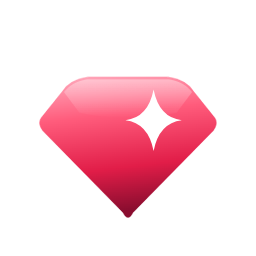
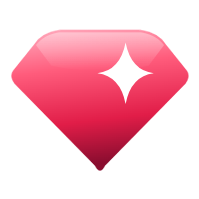
Исправить выравнивание иконки рубина и обрезание имени на карточке "на продаже"
Обрезал прозрачные поля PNG рубина — картинка была смещена внутри
своего холста, из-за чего никакой verticalAlign не давал ровного вида.
Теперь используется стандартный vertical-align: middle везде вместо
ручных пиксельных поправок под каждый размер.

Карточка подарка: если рядом с именем есть цена (лот на продаже), имя
и цена теперь переносятся на отдельные строки вместо того чтобы имя
обрезалось до "Tama G...".

diff --git a/src/pages/Profile.jsx b/src/pages/Profile.jsx
@@ -248,10 +248,10 @@ export default function Profile() {
         <div style={{ textAlign: 'right', marginTop: 4 }}>
           <span style={{ fontSize: 9, color: 'var(--text-muted)' }}>доплата </span>
           <span style={{ fontSize: 12, fontWeight: 700, color: 'var(--gold)' }}>
-            +{fmtGram(paidTopUp)} <GramIcon size={14} style={{ verticalAlign: '-3px' }} />
+            +{fmtGram(paidTopUp)} <GramIcon size={14} />
           </span>
           <div style={{ fontSize: 9, color: 'var(--text-muted)' }}>
-            комиссия при принятии {fmtGram(paidTopUp * TRADE_FEE_RATE)} <GramIcon size={12} style={{ verticalAlign: '-2px' }} />
+            комиссия при принятии {fmtGram(paidTopUp * TRADE_FEE_RATE)} <GramIcon size={12} />
           </div>
         </div>
       )}
@@ -329,7 +329,7 @@ export default function Profile() {
         </div>
         <div style={{ fontFamily: 'var(--font-display)', fontSize: 34, fontWeight: 700 }}>
           <span className="money-text">{loading ? '…' : fmtGram(balance)}</span>
-          {!loading && <GramIcon size={42} style={{ marginLeft: -2, verticalAlign: '-7px' }} />}
+          {!loading && <GramIcon size={42} style={{ marginLeft: -2 }} />}
         </div>
         <div style={{ display: 'flex', gap: 8, width: '100%', marginTop: 14 }}>
           <button
@@ -412,7 +412,7 @@ export default function Profile() {
                 {!isDep && (
                   <div style={{ display: 'flex', alignItems: 'center', justifyContent: 'space-between', marginBottom: 10 }}>
                     <span style={{ fontSize: 13, color: 'var(--text-muted)' }}>
-                      Доступно: <b className="money-text">{fmtGram(balance)}</b> <GramIcon size={16} style={{ verticalAlign: '-3px' }} />
+                      Доступно: <b className="money-text">{fmtGram(balance)}</b> <GramIcon size={16} />
                     </span>
                     <button
                       className="chip"
@@ -569,7 +569,7 @@ export default function Profile() {
                                 💬 {title}
                               </div>
                               <div style={{ fontSize: 11, color: 'var(--text-muted)', marginTop: 2 }}>
-                                Цена лота {fmtGram(o.price_ton)} → предложено <b style={{ color: 'var(--gold)' }}>{fmtGram(o.amount_ton)}</b> <GramIcon size={14} style={{ verticalAlign: '-3px' }} />
+                                Цена лота {fmtGram(o.price_ton)} → предложено <b style={{ color: 'var(--gold)' }}>{fmtGram(o.amount_ton)}</b> <GramIcon size={14} />
                               </div>
                               <div style={{ fontSize: 11, color: 'var(--text-primary)', marginTop: 2 }}>От: @{o.from_username}</div>
                             </div>
@@ -623,7 +623,7 @@ export default function Profile() {
                                 💬 {title}
                               </div>
                               <div style={{ fontSize: 11, color: 'var(--text-muted)', marginTop: 2 }}>
-                                Цена лота {fmtGram(o.price_ton)} → предложено <b style={{ color: 'var(--gold)' }}>{fmtGram(o.amount_ton)}</b> <GramIcon size={14} style={{ verticalAlign: '-3px' }} />
+                                Цена лота {fmtGram(o.price_ton)} → предложено <b style={{ color: 'var(--gold)' }}>{fmtGram(o.amount_ton)}</b> <GramIcon size={14} />
                               </div>
                               <div style={{ fontSize: 11, color: 'var(--text-primary)', marginTop: 2 }}>Кому: @{o.to_username}</div>
                             </div>
@@ -707,7 +707,7 @@ export default function Profile() {
                         <div style={{ textAlign: 'right', marginTop: 4 }}>
                           <span style={{ fontSize: 9, color: 'var(--text-muted)' }}>{label} </span>
                           <span style={{ fontSize: 12, fontWeight: 700, color: 'var(--gold)' }}>
-                            +{fmtGram(amount)} <GramIcon size={18} style={{ verticalAlign: '-4px' }} />
+                            +{fmtGram(amount)} <GramIcon size={18} />
                           </span>
                         </div>
                       )}
@@ -735,7 +735,7 @@ export default function Profile() {
                       <div style={{ textAlign: 'center', fontSize: 11, color: 'var(--text-muted)', margin: '5px 0' }}>
                         ⇅
                         {tx.fee_ton > 0 && (
-                          <span> · комиссия {fmtGram(tx.fee_ton)} <GramIcon size={17} style={{ verticalAlign: '-3px' }} /></span>
+                          <span> · комиссия {fmtGram(tx.fee_ton)} <GramIcon size={17} /></span>
                         )}
                       </div>
                       {giftSide(
@@ -777,7 +777,7 @@ export default function Profile() {
                           whiteSpace: 'nowrap', overflow: 'hidden', textOverflow: 'ellipsis',
                         }}>
                           продал {tx.gift_name ? `${tx.gift_name}${tx.gift_number ? ` #${tx.gift_number}` : ''}` : 'подарок'}
-                          {tx.sale_amount_ton != null && <> за {fmtGram(tx.sale_amount_ton)} <GramIcon size={17} style={{ verticalAlign: '-3px' }} /></>}
+                          {tx.sale_amount_ton != null && <> за {fmtGram(tx.sale_amount_ton)} <GramIcon size={17} /></>}
                         </div>
                         {tx.completed_at && (
                           <div style={{ fontSize: 11, marginTop: 2, color: 'var(--text-muted)' }}>
@@ -791,7 +791,7 @@ export default function Profile() {
                         fontFamily: 'var(--font-display)', fontWeight: 700, fontSize: 14, flexShrink: 0,
                         color: 'var(--gold)',
                       }}>
-                        +{fmtGram(tx.amount_ton)} <GramIcon size={19} style={{ verticalAlign: '-4px' }} />
+                        +{fmtGram(tx.amount_ton)} <GramIcon size={19} />
                       </div>
                     </div>
                   )
@@ -849,7 +849,7 @@ export default function Profile() {
                       fontFamily: 'var(--font-display)', fontWeight: 700, fontSize: 14, flexShrink: 0,
                       color: isBuy ? 'var(--text-secondary)' : 'var(--gold)',
                     }}>
-                      {isBuy ? '−' : '+'}{fmtGram(displayAmount)} <GramIcon size={19} style={{ verticalAlign: '-4px' }} />
+                      {isBuy ? '−' : '+'}{fmtGram(displayAmount)} <GramIcon size={19} />
                     </div>
                   </div>
                 )

diff --git a/src/pages/ListingDetail.jsx b/src/pages/ListingDetail.jsx
@@ -219,16 +219,16 @@ export default function ListingDetail() {
       <div className="card" style={{ padding: '14px 16px', marginBottom: 20 }}>
         <div style={{ display: 'flex', justifyContent: 'space-between', marginBottom: 10 }}>
           <span style={{ fontSize: 13, color: 'var(--text-secondary)' }}>Цена</span>
-          <span style={{ fontSize: 13, fontWeight: 600 }}>{fmtGram(item.price)} <GramIcon size={21} style={{ verticalAlign: '-4px' }} /></span>
+          <span style={{ fontSize: 13, fontWeight: 600 }}>{fmtGram(item.price)} <GramIcon size={21} /></span>
         </div>
         <div style={{ display: 'flex', justifyContent: 'space-between', marginBottom: 10 }}>
           <span style={{ fontSize: 13, color: 'var(--text-secondary)' }}>Комиссия ruby ({Math.round(FEE_RATE * 100)}%)</span>
-          <span style={{ fontSize: 13, color: 'var(--text-muted)' }}>{fmtGram(fee)} <GramIcon size={21} style={{ verticalAlign: '-4px' }} /></span>
+          <span style={{ fontSize: 13, color: 'var(--text-muted)' }}>{fmtGram(fee)} <GramIcon size={21} /></span>
         </div>
         <div className="divider" style={{ margin: '10px 0' }} />
         <div style={{ display: 'flex', justifyContent: 'space-between' }}>
           <span style={{ fontWeight: 600 }}>Итого</span>
-          <span className="price price-md">{fmtGram(total)} <GramIcon size={24} style={{ marginLeft: -1, verticalAlign: '-7px', filter: 'drop-shadow(0 1px 2px rgba(0,0,0,0.55))' }} /></span>
+          <span className="price price-md">{fmtGram(total)} <GramIcon size={24} style={{ marginLeft: -1, filter: 'drop-shadow(0 1px 2px rgba(0,0,0,0.55))' }} /></span>
         </div>
       </div>
 
@@ -288,7 +288,7 @@ export default function ListingDetail() {
                   return (
                     <div style={{ fontSize: 12, color: 'var(--text-muted)', marginBottom: 10 }}>
                       Комиссия {Math.round(FEE_RATE * 100)}%
-                      {p > 0 ? <> — вы получите <span style={{ color: 'var(--money-1)', fontWeight: 700 }}>{fmtGram(youGet)} <GramIcon size={16} style={{ verticalAlign: '-3px' }} /></span></> : ''}.
+                      {p > 0 ? <> — вы получите <span style={{ color: 'var(--money-1)', fontWeight: 700 }}>{fmtGram(youGet)} <GramIcon size={16} /></span></> : ''}.
                     </div>
                   )
                 })()}
@@ -335,7 +335,7 @@ export default function ListingDetail() {
           disabled={buying}
           style={{ fontSize: 15, padding: '14px', boxShadow: 'var(--gold-glow)', gap: 1 }}
         >
-          {buying ? '⏳ Обработка...' : <>Купить за {fmtGram(total)} <GramIcon size={24} style={{ verticalAlign: '-5px', filter: 'drop-shadow(0 1px 2px rgba(0,0,0,0.55))' }} /></>}
+          {buying ? '⏳ Обработка...' : <>Купить за {fmtGram(total)} <GramIcon size={24} style={{ filter: 'drop-shadow(0 1px 2px rgba(0,0,0,0.55))' }} /></>}
         </button>
       )}
     </div>

diff --git a/src/pages/Portfolio.jsx b/src/pages/Portfolio.jsx
@@ -208,7 +208,7 @@ function GiftCard({ gift, onWithdrawn, onListed, onStartTrade, haptic }) {
             {gift.gift_number && <span className="poster-num">#{gift.gift_number}</span>}
           </div>
           {gift.on_sale && gift.price_ton != null && (
-            <div className="poster-price" style={{ flexShrink: 0 }}>{fmtGram(gift.price_ton)} <GramIcon size={24} style={{ verticalAlign: '-5px' }} /></div>
+            <div className="poster-price" style={{ flexShrink: 0 }}>{fmtGram(gift.price_ton)} <GramIcon size={24} /></div>
           )}
         </div>
       </div>
@@ -284,7 +284,7 @@ function GiftCard({ gift, onWithdrawn, onListed, onStartTrade, haptic }) {
         }}>
           <div style={{ fontSize: 12, color: 'var(--text-muted)', marginBottom: 8 }}>
             Комиссия {Math.round(FEE_RATE * 100)}%
-            {newPriceNum > 0 ? <> — вы получите <span style={{ color: 'var(--money-1)', fontWeight: 700 }}>{fmtGram(newYouGet)} <GramIcon size={16} style={{ verticalAlign: '-3px' }} /></span></> : ''}.
+            {newPriceNum > 0 ? <> — вы получите <span style={{ color: 'var(--money-1)', fontWeight: 700 }}>{fmtGram(newYouGet)} <GramIcon size={16} /></span></> : ''}.
           </div>
           <input
             className="input"
@@ -315,7 +315,7 @@ function GiftCard({ gift, onWithdrawn, onListed, onStartTrade, haptic }) {
         }}>
           <div style={{ fontSize: 12, color: 'var(--text-muted)', marginBottom: 8 }}>
             Лот появится на маркете. Комиссия {Math.round(FEE_RATE * 100)}%
-            {priceNum > 0 ? <> — вы получите {fmtGram(youGet)} <GramIcon size={16} style={{ verticalAlign: '-3px' }} /></> : ''}.
+            {priceNum > 0 ? <> — вы получите {fmtGram(youGet)} <GramIcon size={16} /></> : ''}.
           </div>
           <input
             className="input"
@@ -347,7 +347,7 @@ function GiftCard({ gift, onWithdrawn, onListed, onStartTrade, haptic }) {
           <div style={{ fontSize: 12, color: 'var(--text-muted)', marginBottom: 8 }}>
             twentop автоматически отправит подарок на ваш Telegram аккаунт.
             <br />
-            Комиссия за передачу — <span style={{ color: 'var(--money-1)', fontWeight: 700 }}>0.25 <GramIcon size={16} style={{ verticalAlign: '-3px' }} /></span>
+            Комиссия за передачу — <span style={{ color: 'var(--money-1)', fontWeight: 700 }}>0.25 <GramIcon size={16} /></span>
           </div>
           {error && (
             <div style={{ fontSize: 12, color: 'var(--red)', marginBottom: 8 }}>{error}</div>

diff --git a/src/styles/global.css b/src/styles/global.css
@@ -393,15 +393,16 @@ html, body {
   backdrop-filter: blur(8px);
   -webkit-backdrop-filter: blur(8px);
   display: flex;
+  flex-wrap: wrap;
   justify-content: space-between;
   align-items: baseline;
-  gap: 4px;
+  gap: 2px 4px;
 }
 .poster-name-line {
   display: flex;
   align-items: baseline;
   gap: 3px;
-  min-width: 0;
+  min-width: 60%;
   flex: 1;
   overflow: hidden;
 }
@@ -418,12 +419,13 @@ html, body {
   text-shadow: 0 1px 3px rgba(0, 0, 0, 0.85);
 }
 .poster-num { font-size: 9.5px; color: rgba(255, 255, 255, 0.6); flex-shrink: 0; text-shadow: 0 1px 3px rgba(0, 0, 0, 0.85); }
-.poster-sub { font-size: 10px; line-height: 1.2; color: var(--text-secondary); flex-shrink: 0; text-shadow: 0 1px 3px rgba(0, 0, 0, 0.85); }
+.poster-sub { font-size: 10px; line-height: 1.2; color: var(--text-secondary); flex-shrink: 0; margin-left: auto; text-shadow: 0 1px 3px rgba(0, 0, 0, 0.85); }
 .poster-price {
   font-family: var(--font-display);
   font-weight: 700;
   font-size: 16px;
   line-height: 1.2;
+  margin-left: auto;
   background: linear-gradient(135deg, var(--money-1), var(--money-2));
   -webkit-background-clip: text;
   background-clip: text;

diff --git a/src/pages/Cart.jsx b/src/pages/Cart.jsx
@@ -149,7 +149,7 @@ export default function Cart() {
                     {item.name}{item.number ? ` ${String(item.number).startsWith('#') ? item.number : `#${item.number}`}` : ''}
                   </div>
                   <div className="money-text" style={{ fontSize: 13, fontWeight: 700, marginTop: 2 }}>
-                    {fmtGram(item.price)} <GramIcon size={20} style={{ verticalAlign: '-4px' }} />
+                    {fmtGram(item.price)} <GramIcon size={20} />
                   </div>
                 </div>
                 <button
@@ -171,7 +171,7 @@ export default function Cart() {
           <div className="card" style={{ padding: '14px 16px', marginBottom: 16 }}>
             <div style={{ display: 'flex', justifyContent: 'space-between', alignItems: 'center' }}>
               <span style={{ fontWeight: 600 }}>Итого</span>
-              <span className="price price-md">{fmtGram(total)} <GramIcon size={24} style={{ marginLeft: -1, verticalAlign: '-7px', filter: 'drop-shadow(0 1px 2px rgba(0,0,0,0.55))' }} /></span>
+              <span className="price price-md">{fmtGram(total)} <GramIcon size={24} style={{ marginLeft: -1, filter: 'drop-shadow(0 1px 2px rgba(0,0,0,0.55))' }} /></span>
             </div>
           </div>
 
@@ -181,7 +181,7 @@ export default function Cart() {
             onClick={buyAll}
             style={{ fontSize: 15, padding: '14px', boxShadow: buying ? 'none' : 'var(--gold-glow)', opacity: buying ? 0.5 : 1, gap: 1 }}
           >
-            {buying ? '⏳ Покупаем…' : <>Купить всё за {fmtGram(total)} <GramIcon size={24} style={{ verticalAlign: '-5px', filter: 'drop-shadow(0 1px 2px rgba(0,0,0,0.55))' }} /></>}
+            {buying ? '⏳ Покупаем…' : <>Купить всё за {fmtGram(total)} <GramIcon size={24} style={{ filter: 'drop-shadow(0 1px 2px rgba(0,0,0,0.55))' }} /></>}
           </button>
         </>
       )}

diff --git a/src/pages/MarketHistory.jsx b/src/pages/MarketHistory.jsx
@@ -231,7 +231,7 @@ export default function MarketHistory() {
               <div style={{ textAlign: 'center', fontSize: 11, color: 'var(--text-muted)', margin: '5px 0' }}>
                 ⇅
                 {it.top_up_ton > 0 && (
-                  <span> · доплата {fmtGram(it.top_up_ton)} <GramIcon size={13} style={{ verticalAlign: '-2px' }} /></span>
+                  <span> · доплата {fmtGram(it.top_up_ton)} <GramIcon size={13} /></span>
                 )}
               </div>
               <div style={{ display: 'flex', flexDirection: 'column', gap: 4 }}>
@@ -261,7 +261,7 @@ export default function MarketHistory() {
                   </div>
                 )}
                 <div style={{ fontFamily: 'var(--font-display)', fontWeight: 700, fontSize: 14, color: 'var(--money-1, var(--gold))' }}>
-                  {fmtGram(it.price_ton)} <GramIcon size={16} style={{ verticalAlign: '-3px' }} />
+                  {fmtGram(it.price_ton)} <GramIcon size={16} />
                 </div>
               </div>
             ) : itemPrice(it) != null ? (
@@ -269,7 +269,7 @@ export default function MarketHistory() {
                 fontFamily: 'var(--font-display)', fontWeight: 700, fontSize: 14, flexShrink: 0,
                 color: 'var(--money-1, var(--gold))',
               }}>
-                {fmtGram(itemPrice(it))} <GramIcon size={16} style={{ verticalAlign: '-3px' }} />
+                {fmtGram(itemPrice(it))} <GramIcon size={16} />
               </div>
             ) : null}
           </div>

diff --git a/src/pages/Sell.jsx b/src/pages/Sell.jsx
@@ -337,18 +337,18 @@ export default function Sell() {
           <div className="card" style={{ padding: '14px 16px', marginBottom: 20 }}>
             <div style={{ display: 'flex', justifyContent: 'space-between', marginBottom: 10 }}>
               <span style={{ fontSize: 13, color: 'var(--text-secondary)' }}>Цена покупателя</span>
-              <span style={{ fontSize: 13, fontWeight: 600 }}>{fmtGram(priceNum)} <GramIcon size={21} style={{ verticalAlign: '-4px' }} /></span>
+              <span style={{ fontSize: 13, fontWeight: 600 }}>{fmtGram(priceNum)} <GramIcon size={21} /></span>
             </div>
             <div style={{ display: 'flex', justifyContent: 'space-between', marginBottom: 10 }}>
               <span style={{ fontSize: 13, color: 'var(--text-secondary)' }}>
                 Комиссия ruby ({Math.round(FEE_RATE * 100)}%)
               </span>
-              <span style={{ fontSize: 13, color: 'var(--text-muted)' }}>− {fmtGram(fee)} <GramIcon size={21} style={{ verticalAlign: '-4px' }} /></span>
+              <span style={{ fontSize: 13, color: 'var(--text-muted)' }}>− {fmtGram(fee)} <GramIcon size={21} /></span>
             </div>
             <div className="divider" style={{ margin: '10px 0' }} />
             <div style={{ display: 'flex', justifyContent: 'space-between' }}>
               <span style={{ fontWeight: 600 }}>Вы получите</span>
-              <span className="price price-md">{fmtGram(youGet)} <GramIcon size={24} style={{ marginLeft: -1, verticalAlign: '-7px', filter: 'drop-shadow(0 1px 2px rgba(0,0,0,0.55))' }} /></span>
+              <span className="price price-md">{fmtGram(youGet)} <GramIcon size={24} style={{ marginLeft: -1, filter: 'drop-shadow(0 1px 2px rgba(0,0,0,0.55))' }} /></span>
             </div>
           </div>
 

diff --git a/src/components/GiftCard.jsx b/src/components/GiftCard.jsx
@@ -77,7 +77,7 @@ export default function GiftCard({ item, onClick, onOffer, onCartToggle, inCart,
         {/* Цена в инфо-строке дублирует кнопку «Купить за N» — прячем, когда
             кнопка есть; на своих лотах (без кнопки) цена остаётся */}
         {item.price != null
-          ? (!onBuy && <div className="poster-price" style={{ flexShrink: 0 }}>{fmtGram(item.price)} <GramIcon size={24} style={{ verticalAlign: '-5px' }} /></div>)
+          ? (!onBuy && <div className="poster-price" style={{ flexShrink: 0 }}>{fmtGram(item.price)} <GramIcon size={24} /></div>)
           : <div className="poster-sub" style={{ color: 'var(--text-secondary)', fontWeight: 600, flexShrink: 0 }}>
               {item.owner ? `@${item.owner}` : 'На обмен'}
             </div>}
@@ -97,7 +97,7 @@ export default function GiftCard({ item, onClick, onOffer, onCartToggle, inCart,
             disabled={buyBusy}
             onClick={(e) => { e.stopPropagation(); onBuy(item) }}
           >
-            {buyBusy ? '⏳' : <>{fmtGram(item.price)} <GramIcon size={25} style={{ verticalAlign: '-6px', filter: 'drop-shadow(0 1px 2px rgba(0,0,0,0.55))' }} /></>}
+            {buyBusy ? '⏳' : <>{fmtGram(item.price)} <GramIcon size={25} style={{ filter: 'drop-shadow(0 1px 2px rgba(0,0,0,0.55))' }} /></>}
           </button>
         </div>
       )}

diff --git a/src/pages/TradeDetail.jsx b/src/pages/TradeDetail.jsx
@@ -327,8 +327,8 @@ export default function TradeDetail() {
           />
           {topUpNum > 0 && (
             <div style={{ fontSize: 11, color: 'var(--text-muted)', marginBottom: 10 }}>
-              Комиссия площадки {Math.round(FEE_RATE * 100)}% ({fmtGram(topUpFee)} <GramIcon size={15} style={{ verticalAlign: '-3px' }} />) с доплаты —
-              владелец лота получит {fmtGram(topUpNum - topUpFee)} <GramIcon size={15} style={{ verticalAlign: '-3px' }} />
+              Комиссия площадки {Math.round(FEE_RATE * 100)}% ({fmtGram(topUpFee)} <GramIcon size={15} />) с доплаты —
+              владелец лота получит {fmtGram(topUpNum - topUpFee)} <GramIcon size={15} />
             </div>
           )}
 

diff --git a/src/components/GramIcon.jsx b/src/components/GramIcon.jsx
@@ -6,7 +6,7 @@ export default function GramIcon({ size = 14, style }) {
       src="/ruby-gem-256.png"
       width={size}
       height={size}
-      style={{ verticalAlign: '-2px', flexShrink: 0, marginLeft: -4, ...style }}
+      style={{ verticalAlign: 'middle', flexShrink: 0, marginLeft: -4, ...style }}
       alt="Gram"
     />
   )

diff --git a/src/pages/Referral.jsx b/src/pages/Referral.jsx
@@ -82,7 +82,7 @@ export default function Referral() {
       <div style={{ display: 'grid', gridTemplateColumns: '1fr 1fr', gap: 10, marginBottom: 16 }}>
         {[
           { label: 'Приглашено', value: stats === null ? '…' : String(stats.invited ?? 0) },
-          { label: 'Заработано', value: stats === null ? '…' : <><span className="money-text">{fmtGram(stats.earned_ton)}</span> <GramIcon size={20} style={{ verticalAlign: '-4px' }} /></> },
+          { label: 'Заработано', value: stats === null ? '…' : <><span className="money-text">{fmtGram(stats.earned_ton)}</span> <GramIcon size={20} /></> },
         ].map(s => (
           <div key={s.label} style={{
             background: 'var(--bg-card)',